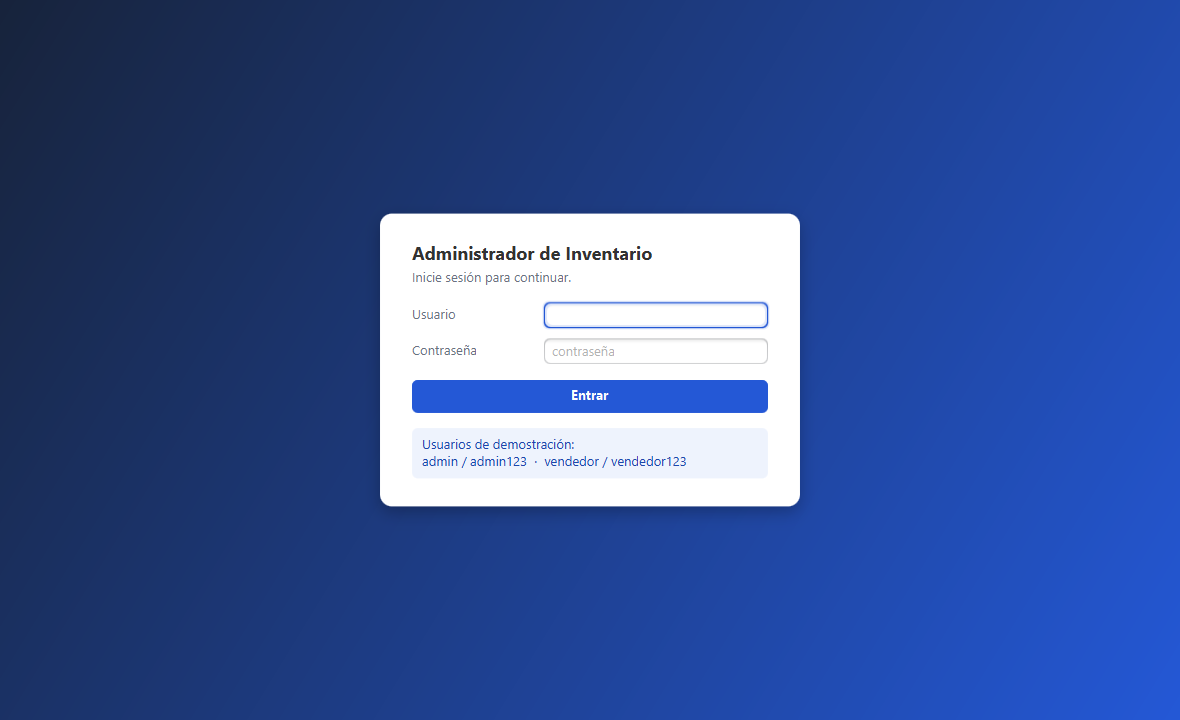
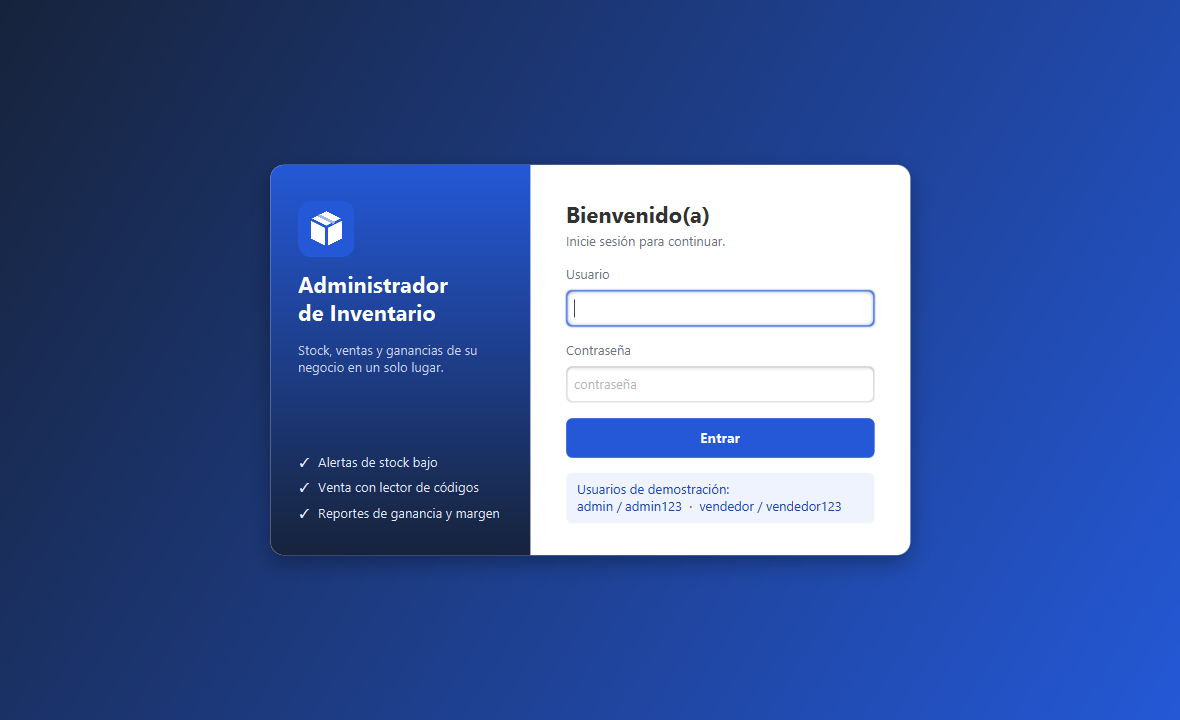
Rediseñar la pantalla de acceso
Tarjeta de dos paneles: a la izquierda el ícono, el nombre y lo que
ofrece el programa; a la derecha el formulario con las etiquetas sobre
los campos. Se actualizan las capturas del README y se agrega la de la
venta rápida.

Changed region(s): [[0.2136, 0.2139, 0.7932, 0.7944]]

diff --git a/src/main/resources/inventario/ui/fx/estilos.css b/src/main/resources/inventario/ui/fx/estilos.css
@@ -339,7 +339,7 @@
     -fx-background-color: #24324f;
 }
 .titulo-acceso {
-    -fx-font-size: 18px;
+    -fx-font-size: 22px;
     -fx-font-weight: bold;
 }
 .aviso-demo {
@@ -353,7 +353,34 @@
 }
 .tarjeta-acceso {
     -fx-background-color: -color-superficie;
-    -fx-background-radius: 12;
-    -fx-padding: 28 32 28 32;
-    -fx-effect: dropshadow(gaussian, rgba(0, 0, 0, 0.25), 24, 0, 0, 6);
+    -fx-background-radius: 14;
+    -fx-effect: dropshadow(gaussian, rgba(0, 0, 0, 0.30), 32, 0, 0, 8);
+}
+.formulario-acceso {
+    -fx-padding: 36 36 32 36;
+}
+.campo-acceso {
+    -fx-pref-height: 36px;
+}
+.formulario-acceso .button.primario {
+    -fx-pref-height: 38px;
+    -fx-font-size: 14px;
+}
+/* Panel de presentación a la izquierda de la tarjeta de acceso */
+.panel-marca {
+    -fx-background-color: linear-gradient(to bottom, #2458d6, #17233b);
+    -fx-background-radius: 14 0 0 14;
+    -fx-padding: 36 28 32 28;
+}
+.marca-nombre {
+    -fx-text-fill: white;
+    -fx-font-size: 22px;
+    -fx-font-weight: bold;
+}
+.marca-lema {
+    -fx-text-fill: #c9d6f5;
+    -fx-font-size: 13px;
+}
+.marca-punto {
+    -fx-text-fill: #e3eafb;
 }

diff --git a/src/main/java/inventario/ui/fx/PantallaAcceso.java b/src/main/java/inventario/ui/fx/PantallaAcceso.java
@@ -12,11 +12,17 @@ import javafx.scene.control.Button;
 import javafx.scene.control.Label;
 import javafx.scene.control.PasswordField;
 import javafx.scene.control.TextField;
-import javafx.scene.layout.GridPane;
+import javafx.scene.control.Control;
+import javafx.scene.image.Image;
+import javafx.scene.image.ImageView;
+import javafx.scene.layout.HBox;
+import javafx.scene.layout.Priority;
 import javafx.scene.layout.Region;
 import javafx.scene.layout.StackPane;
 import javafx.scene.layout.VBox;
 
+import java.util.List;
+import java.util.Objects;
 import java.util.function.Consumer;
 import java.util.function.Supplier;
 
@@ -41,15 +47,46 @@ final class PantallaAcceso {
         error.visibleProperty().bind(error.textProperty().isNotEmpty());
     }
 
+    /** Tarjeta de dos paneles: la presentación del programa a la izquierda y el formulario a la derecha. */
     Parent vista() {
-        VBox tarjeta = usuarios.requiereConfiguracionInicial() ? formularioInicial() : formularioAcceso();
+        VBox formulario = usuarios.requiereConfiguracionInicial() ? formularioInicial() : formularioAcceso();
+        formulario.getStyleClass().add("formulario-acceso");
+        formulario.setPrefWidth(380);
+        HBox tarjeta = new HBox(panelMarca(), formulario);
         tarjeta.getStyleClass().add("tarjeta-acceso");
-        tarjeta.setMaxWidth(420);
+        tarjeta.setMaxWidth(Region.USE_PREF_SIZE);
         tarjeta.setMaxHeight(Region.USE_PREF_SIZE);
         StackPane fondo = new StackPane(tarjeta);
         fondo.getStyleClass().add("fondo-acceso");
         fondo.setPadding(new Insets(24));
         return fondo;
+    }
+
+    private static VBox panelMarca() {
+        ImageView icono = new ImageView(new Image(Objects.requireNonNull(
+                PantallaAcceso.class.getResource("icono.png"), "falta icono.png").toExternalForm()));
+        icono.setFitWidth(56);
+        icono.setFitHeight(56);
+        icono.setPreserveRatio(true);
+        icono.setSmooth(true);
+        Label nombre = new Label("Administrador\nde Inventario");
+        nombre.getStyleClass().add("marca-nombre");
+        Label lema = new Label("Stock, ventas y ganancias de su negocio en un solo lugar.");
+        lema.getStyleClass().add("marca-lema");
+        lema.setWrapText(true);
+        VBox puntos = new VBox(8);
+        for (String texto : List.of("Alertas de stock bajo", "Venta con lector de códigos",
+                "Reportes de ganancia y margen")) {
+            Label punto = new Label("✓  " + texto);
+            punto.getStyleClass().add("marca-punto");
+            puntos.getChildren().add(punto);
+        }
+        Region espacio = new Region();
+        VBox.setVgrow(espacio, Priority.ALWAYS);
+        VBox panel = new VBox(14, icono, nombre, lema, espacio, puntos);
+        panel.getStyleClass().add("panel-marca");
+        panel.setPrefWidth(260);
+        return panel;
     }
 
     private VBox formularioAcceso() {
@@ -65,10 +102,8 @@ final class PantallaAcceso {
             }
         });
 
-        GridPane rejilla = Dialogos.rejilla();
-        Dialogos.fila(rejilla, "Usuario", usuario);
-        Dialogos.fila(rejilla, "Contraseña", contrasena);
-        VBox tarjeta = new VBox(16, encabezado("Inicie sesión para continuar."), rejilla, error, entrar);
+        VBox tarjeta = new VBox(16, encabezado("Bienvenido(a)", "Inicie sesión para continuar."),
+                campo("Usuario", usuario), campo("Contraseña", contrasena), error, entrar);
         if (demo) {
             Label ayuda = new Label("Usuarios de demostración:\n" + Aplicacion.CREDENCIALES_DEMO);
             ayuda.getStyleClass().add("aviso-demo");
@@ -94,16 +129,12 @@ final class PantallaAcceso {
                     contrasena.getText().toCharArray());
         });
 
-        GridPane rejilla = Dialogos.rejilla();
-        Dialogos.fila(rejilla, "Usuario", usuario);
-        Dialogos.fila(rejilla, "Nombre completo", nombre);
-        Dialogos.fila(rejilla, "Contraseña", contrasena);
-        Dialogos.fila(rejilla, "Repetir", repetir);
         Label reglas = new Label("Al menos 8 caracteres, combinando letras y números.");
         reglas.getStyleClass().add("texto-secundario");
         Platform.runLater(nombre::requestFocus);
-        return new VBox(16, encabezado("Primera ejecución: cree el usuario administrador."), rejilla, reglas,
-                error, crear);
+        return new VBox(12, encabezado("Primera ejecución", "Cree el usuario administrador."),
+                campo("Usuario", usuario), campo("Nombre completo", nombre), campo("Contraseña", contrasena),
+                campo("Repetir contraseña", repetir), reglas, error, crear);
     }
 
     /** Botón que ejecuta la acción; Enter en cualquier campo también lo activa. */
@@ -123,8 +154,18 @@ final class PantallaAcceso {
         return boton;
     }
 
-    private static VBox encabezado(String texto) {
-        Label titulo = new Label("Administrador de Inventario");
+    /** Etiqueta encima del campo, como en los formularios web. */
+    private static VBox campo(String etiqueta, Control control) {
+        Label texto = new Label(etiqueta);
+        texto.getStyleClass().add("etiqueta-campo");
+        texto.setLabelFor(control);
+        control.setMaxWidth(Double.MAX_VALUE);
+        control.getStyleClass().add("campo-acceso");
+        return new VBox(6, texto, control);
+    }
+
+    private static VBox encabezado(String saludo, String texto) {
+        Label titulo = new Label(saludo);
         titulo.getStyleClass().add("titulo-acceso");
         Label subtitulo = new Label(texto);
         subtitulo.getStyleClass().add("texto-secundario");

diff --git a/README.md b/README.md
@@ -254,6 +254,10 @@ erDiagram
 | --- | --- |
 | ![Acceso](docs/capturas/acceso.png) | ![Vendedor](docs/capturas/vista-vendedor.png) |
 
+| Venta rápida (lector de código de barras) |
+| --- |
+| ![Venta rápida](docs/capturas/venta-rapida.png) |
+
 | Web: reportes | Web: registrar venta |
 | --- | --- |
 | ![Reportes web](docs/capturas/web-reportes.png) | ![Venta web](docs/capturas/web-venta.png) |
